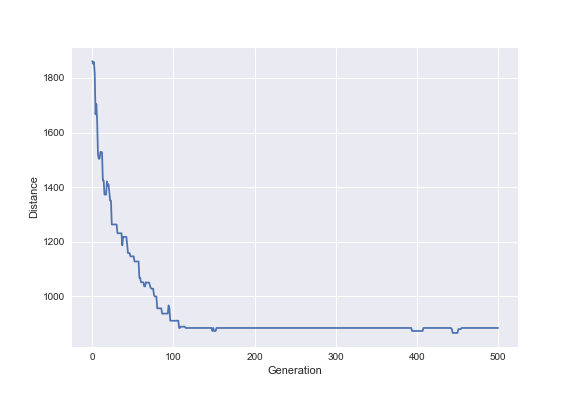
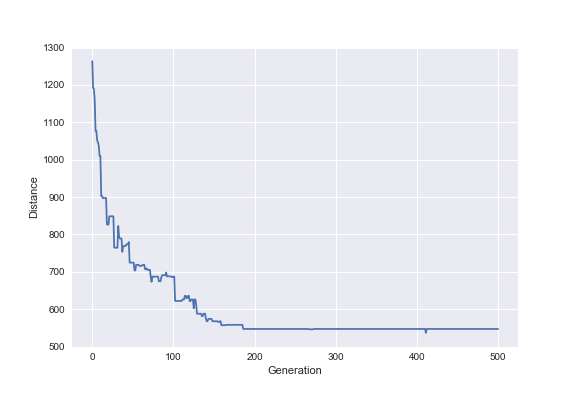
[RL][feat] Finish implementing GA for traveling salesman problem

diff --git a/02-deep-learning/03-reinforcement-learning/others/optimization-algorithms/genetic-algorithm/traveling-salesman/utils.py b/02-deep-learning/03-reinforcement-learning/others/optimization-algorithms/genetic-algorithm/traveling-salesman/utils.py
@@ -1,0 +1,41 @@
+import networkx as nx # for node graph
+import matplotlib.pyplot as plt
+
+
+def create_city_graph(city_list):
+
+    city_list = city_list
+    
+    city_graph = [(140, 93), (93, 100), (93, 120), (100, 80), (80, 140), 
+                  (120, 75), (75, 85), (85, 140), (140, 150), (150, 180), 
+                  (80, 130), (100, 95), (150, 145), (75, 60), (130, 95), 
+                  (85, 65), (100, 110), (110, 93), (110, 20), (130, 150), 
+                  (120, 125), (125, 60), (60, 40), (140, 145), (145, 85)]
+
+    G = nx.Graph()
+    G.add_edges_from(city_graph)
+    nx.draw(G, with_labels=True, node_color=['red'], node_size=[1000, 600, 800])
+    
+    plt.show()
+    
+    return city_graph
+    
+def plot_distance_fitness_progress(algo, population, population_size, elite_size, mutation_rate):
+    
+    population = algo.generate_population(population, population_size)
+    
+    progress = []
+    progress.append(1 / algo.get_rank_routes(population)[0][1])
+    
+    for i in range(0, algo.num_generations):
+        population = algo.create_next_generation(population, elite_size, mutation_rate)
+        progress.append(1 / algo.get_rank_routes(population)[0][1])
+    
+    plt.plot(progress)
+    plt.ylabel('Distance')
+    plt.xlabel('Generation')
+    
+    plt.savefig('./images/plot_distance_fitness_progress.png')
+    
+    plt.show()
+    
